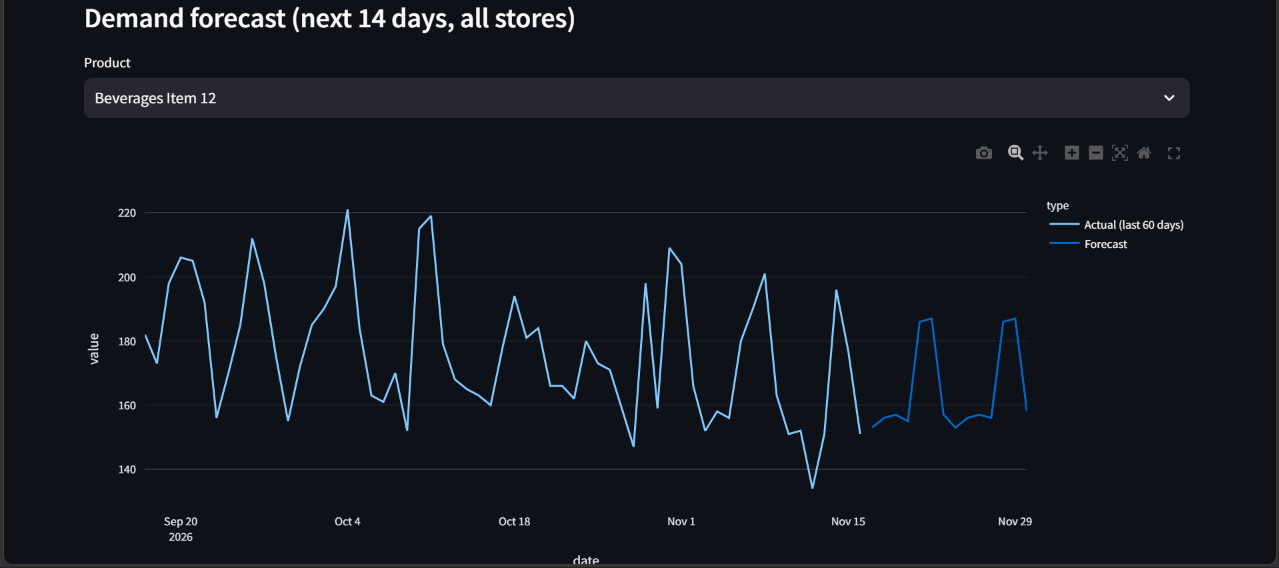
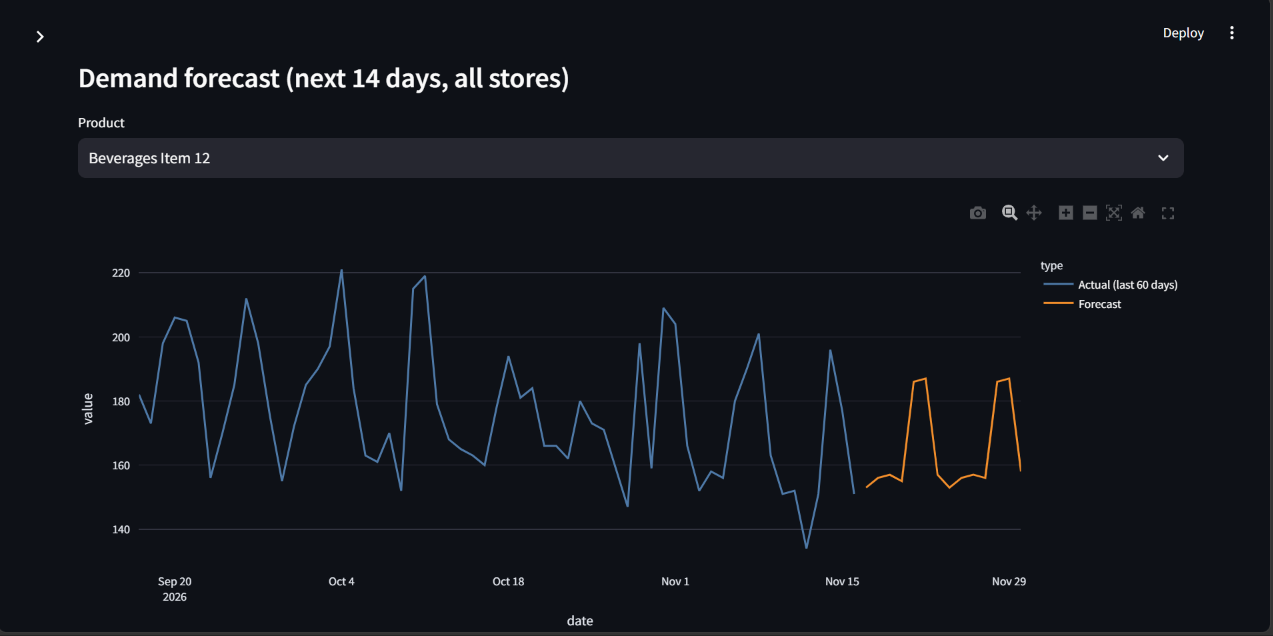
Update dashboard, screenshots and README

diff --git a/dashboard/app.py b/dashboard/app.py
@@ -6,12 +6,14 @@ import streamlit as st
 
 st.set_page_config(page_title="Control Tower", layout="wide")
 
+
 @st.cache_data
 def load(query):
     conn = sqlite3.connect("data/processed/retail.db")
     df = pd.read_sql_query(query, conn)
     conn.close()
     return df
+
 
 risk = pd.read_csv("reports/stockout_risk.csv")
 supp = pd.read_csv("reports/supplier_performance.csv")
@@ -54,8 +56,8 @@ right.dataframe(
 # ---- Supplier performance ----
 st.subheader("Supplier performance")
 fig = px.bar(supp.sort_values("on_time_pct"), x="on_time_pct", y="supplier_name",
-             orientation="h", text="on_time_pct", labels={"on_time_pct": "On-time %",
-             "supplier_name": ""})
+             orientation="h", text="on_time_pct",
+             labels={"on_time_pct": "On-time %", "supplier_name": ""})
 st.plotly_chart(fig, use_container_width=True)
 
 # ---- Demand forecast ----
@@ -66,7 +68,7 @@ h["type"] = "Actual (last 60 days)"
 f = fc[fc.product_name == product].rename(columns={"forecast_units": "value"})
 f["type"] = "Forecast"
 line = pd.concat([h[["date", "value", "type"]], f[["date", "value", "type"]]])
-st.plotly_chart(px.line(line, x="date", y="value", color="type"), use_container_width=True)
-st.plotly_chart(px.line(line, x="date", y="value", color="type",
-                color_discrete_map={"Actual (last 60 days)": "#4e79a7", "Forecast": "#f28e2b"}),
-                use_container_width=True)
+st.plotly_chart(
+    px.line(line, x="date", y="value", color="type",
+            color_discrete_map={"Actual (last 60 days)": "#4e79a7", "Forecast": "#f28e2b"}),
+    use_container_width=True)
